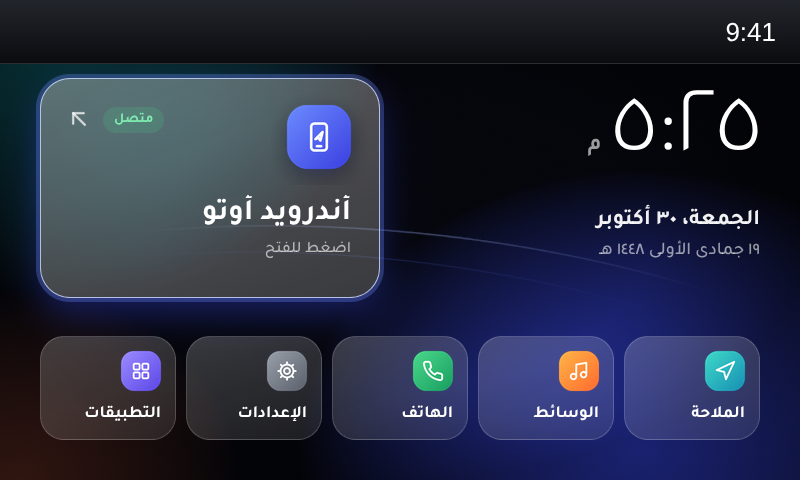
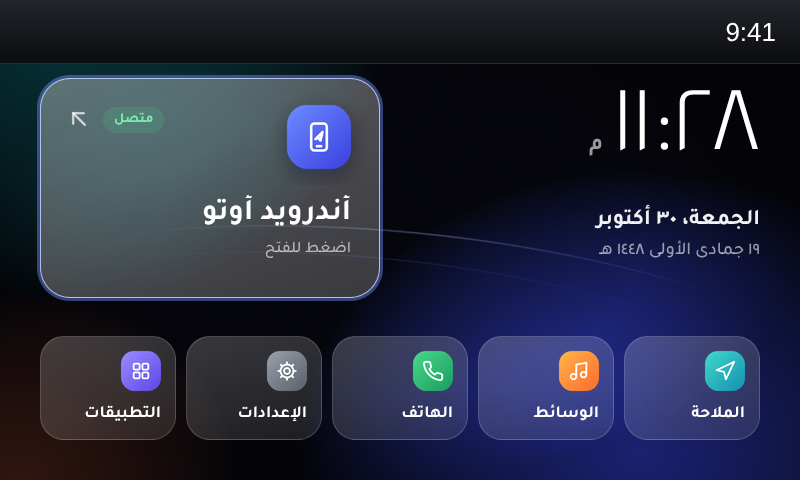
v1.0.1: read time from the system, not the CMU's unset OS clock; softer focus ring
First in-car test (2019 CX-9, 74.00.333A ADR) showed 12:02 / 1 January:
the CMU's Linux clock is never set. Use framework.common.getCurrentTime()
like Mazda's status bar, and show nothing instead of a 1970 date.
The large blurred focus shadow rendered as a solid block in Presto.

Claude-Session: https://claude.ai/code/session_01V4FfChv7vNtmFhD25YE9o6

Changed region(s): [[0.0312, 0.25, 0.5, 0.6875], [0.7188, 0.1875, 0.9688, 0.3125], [0.4062, 0.1562, 0.4688, 0.1875]]

diff --git a/installer/home2/js/MainMenuCtrl.js b/installer/home2/js/MainMenuCtrl.js
@@ -1,6 +1,6 @@
 /*
  * Home 2.0 "Ember Glass" launcher for Mazda Connect (CMU 150, firmware 74.x)
- * Version 1.0.0 — see README.md
+ * Version 1.0.1 — see README.md
  *
  * Drop-in replacement for /jci/gui/apps/system/controls/MainMenu/js/MainMenuCtrl.js.
  * It keeps the public API the stock system app uses (constructor, handleControllerEvent,
@@ -243,11 +243,32 @@ MainMenuCtrl.prototype._pad = function(n)
     return (n < 10 ? "0" : "") + n;
 };
 
+// The CMU's own Linux clock is usually never set (it starts at 1 January 1970).
+// The real time comes from the system as a message and is cached by the framework,
+// which is also what Mazda's status-bar clock shows. Use that; fall back to the OS clock
+// only if it looks valid. Returns null when no valid time is known yet.
+MainMenuCtrl.prototype._now = function()
+{
+    var t = 0;
+    try { t = framework.common.getCurrentTime(); } catch (e) {}
+    var d = (typeof t === "number" && t > 0) ? new Date(t) : new Date();
+    if (isNaN(d.getTime()) || d.getFullYear() < 2020)
+    {
+        return null;
+    }
+    return d;
+};
+
 MainMenuCtrl.prototype._updateClock = function()
 {
-    var now = new Date();
-    if (isNaN(now.getTime()) || now.getTime() <= 0)
+    var now = this._now();
+    if (!now)
     {
+        // Time not known yet: show nothing rather than a 1970 date.
+        this._setText(this._timeEl, "");
+        this._setText(this._ampmEl, "");
+        this._setText(this._dateEl, "");
+        this._setText(this._hijriEl, "");
         return;
     }
 

diff --git a/src/launcher/MainMenuCtrl.js b/src/launcher/MainMenuCtrl.js
@@ -243,11 +243,32 @@ MainMenuCtrl.prototype._pad = function(n)
     return (n < 10 ? "0" : "") + n;
 };
 
+// The CMU's own Linux clock is usually never set (it starts at 1 January 1970).
+// The real time comes from the system as a message and is cached by the framework,
+// which is also what Mazda's status-bar clock shows. Use that; fall back to the OS clock
+// only if it looks valid. Returns null when no valid time is known yet.
+MainMenuCtrl.prototype._now = function()
+{
+    var t = 0;
+    try { t = framework.common.getCurrentTime(); } catch (e) {}
+    var d = (typeof t === "number" && t > 0) ? new Date(t) : new Date();
+    if (isNaN(d.getTime()) || d.getFullYear() < 2020)
+    {
+        return null;
+    }
+    return d;
+};
+
 MainMenuCtrl.prototype._updateClock = function()
 {
-    var now = new Date();
-    if (isNaN(now.getTime()) || now.getTime() <= 0)
+    var now = this._now();
+    if (!now)
     {
+        // Time not known yet: show nothing rather than a 1970 date.
+        this._setText(this._timeEl, "");
+        this._setText(this._ampmEl, "");
+        this._setText(this._dateEl, "");
+        this._setText(this._hijriEl, "");
         return;
     }
 

diff --git a/preview/index.html b/preview/index.html
@@ -35,6 +35,8 @@
   var PHONE = q.get("phone") || "androidauto";
   var FMT = q.get("fmt") || "12hrs";
   var FOCUS = q.get("focus");
+  // Like the car: the OS clock may be wrong; the framework caches the real time. ?cached=<ms> overrides.
+  var CACHED = q.get("cached") ? +q.get("cached") : Date.now();
   function say(t) { document.getElementById("log").textContent = t; }
 
   window.log = { addSrcFile: function(){}, debug: function(){}, info: function(){}, warn: function(){}, error: function(){} };
@@ -46,6 +48,7 @@
     },
     common: {
       _remoteUiBtns: { system: PHONE === "none" ? null : { appName: PHONE } },
+      getCurrentTime: function() { return CACHED; },
       beep: function() {},
       stealFocus: function() {}
     },

diff --git a/installer/home2/css/MainMenuCtrl.css b/installer/home2/css/MainMenuCtrl.css
@@ -86,7 +86,7 @@
   background-color: rgba(255, 255, 255, 0.14);
   background-image: -o-linear-gradient(top left, rgba(255, 255, 255, 0.24), rgba(255, 255, 255, 0.08));
   background-image: linear-gradient(160deg, rgba(255, 255, 255, 0.24), rgba(255, 255, 255, 0.08));
-  box-shadow: 0px 0px 0px 4px rgba(110, 140, 255, 0.30), 0px 16px 36px rgba(58, 76, 255, 0.35);
+  box-shadow: 0px 0px 0px 3px rgba(110, 140, 255, 0.45);
 }
 
 .H2Card.H2Launch {
@@ -100,7 +100,7 @@
   width: 340px;
   height: 220px;
   border-radius: 30px;
-  box-shadow: 0px 18px 36px rgba(0, 0, 0, 0.35);
+  box-shadow: none;
 }
 
 .H2HeroChip {

diff --git a/src/launcher/MainMenuCtrl.css b/src/launcher/MainMenuCtrl.css
@@ -86,7 +86,7 @@
   background-color: rgba(255, 255, 255, 0.14);
   background-image: -o-linear-gradient(top left, rgba(255, 255, 255, 0.24), rgba(255, 255, 255, 0.08));
   background-image: linear-gradient(160deg, rgba(255, 255, 255, 0.24), rgba(255, 255, 255, 0.08));
-  box-shadow: 0px 0px 0px 4px rgba(110, 140, 255, 0.30), 0px 16px 36px rgba(58, 76, 255, 0.35);
+  box-shadow: 0px 0px 0px 3px rgba(110, 140, 255, 0.45);
 }
 
 .H2Card.H2Launch {
@@ -100,7 +100,7 @@
   width: 340px;
   height: 220px;
   border-radius: 30px;
-  box-shadow: 0px 18px 36px rgba(0, 0, 0, 0.35);
+  box-shadow: none;
 }
 
 .H2HeroChip {
